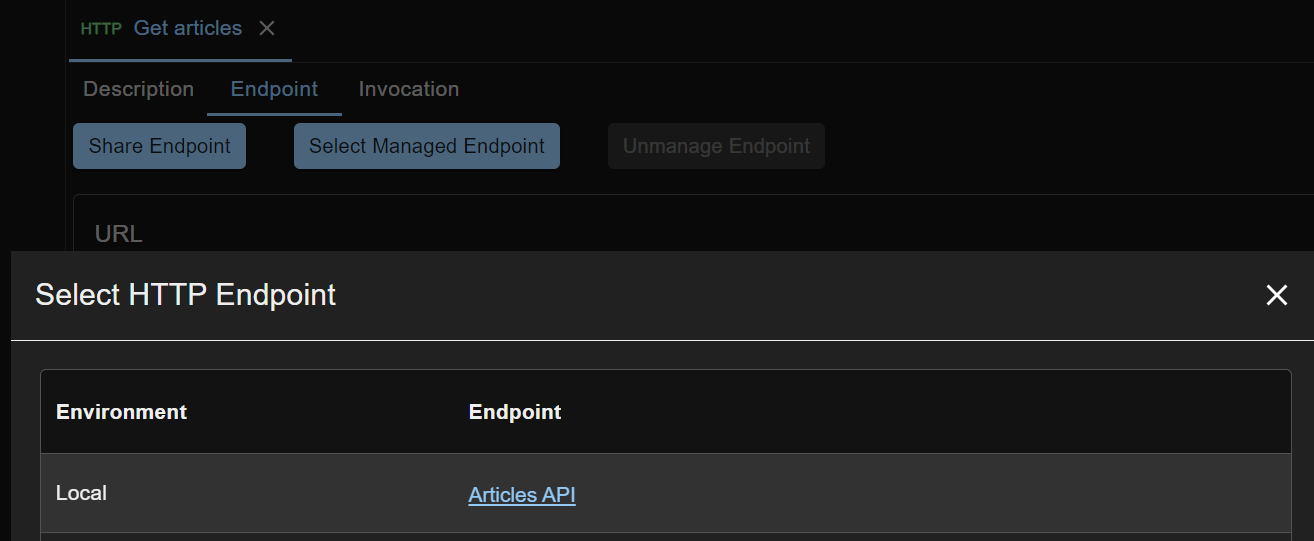
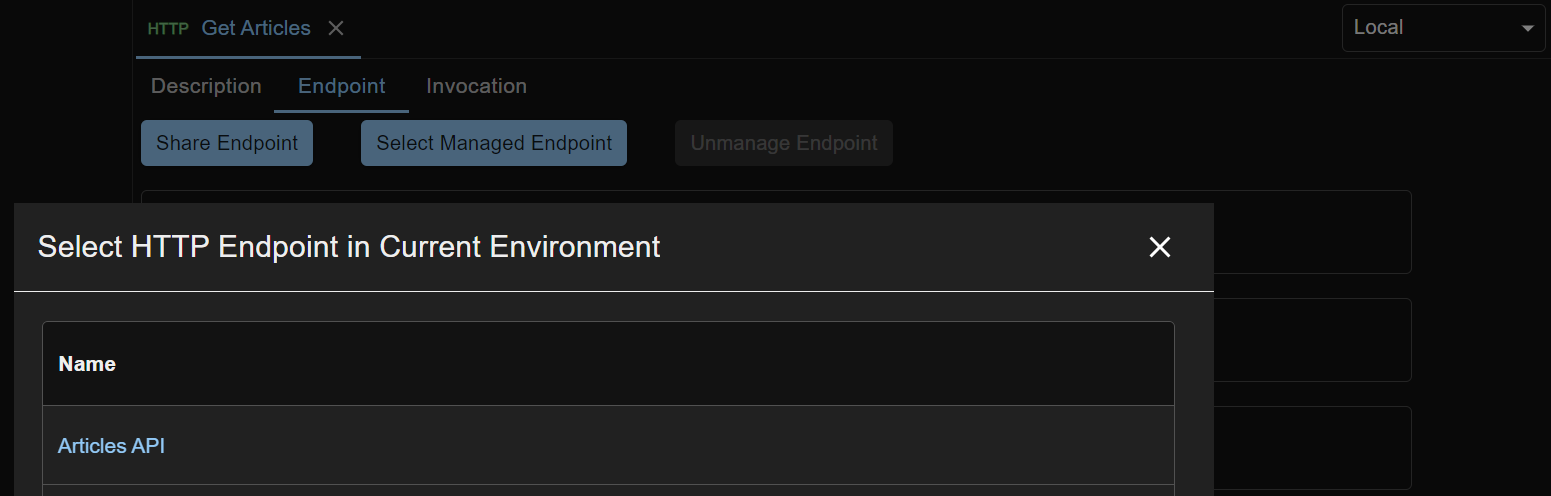
update doc for env management

diff --git a/_docs/en/endpoints-management.md b/_docs/en/endpoints-management.md
@@ -3,43 +3,38 @@ title: Endpoints Management
 permalink: /docs/en/endpoints-management
 key: docs-endpoints-management
 ---
-When a new request or test step is created, and it needs an endpoint, an `unmanaged endpoint` with empty values will be created and associated with it.
+When a new request is created, an `unmanaged endpoint` with empty values will be created and associated with it.
 
-Unmanaged endpoint is specific to a request or test step, and is invisible to other requests or test steps.
+Unmanaged endpoint is specific to a request, and is invisible to other requests.
 
-To reuse endpoints across requests or test steps, you can create `managed endpoints`.
+To reuse endpoints across requests, you can create `managed endpoints` in environments.
 
-## Create Environment
-Managed endpoints reside in environments.
-
-To create an environment, click the `Environments` icon in the left side bar of the screen, right click the blank space in the left side pane and select `New Environment` from the context menu.
-
-Give it a name (like 'Local'), press Enter, and a new empty environment is created with its edit view opened.
-
-![Environment](../../screenshots/env-mgmt/environment.png)
+Refer to this [page](/docs/en/environments-management) for more information about environments.
 
 There are two ways to create a managed endpoint. Here we use HTTP endpoint as an example.
 
 ## Create Managed Endpoint in the Environments area
-In the 'Local' environment we just created, click `+ Endpoint` dropdown button, select `HTTP`, give it a name (like 'Article API') and press Enter. A managed HTTP endpoint is created with its edit view displayed on the right.
+Suppose you have created an environment (like 'Local') in the Environments area, open the environment. Click `+ Endpoint` dropdown button, select `HTTP`, give it a name (like 'Articles API') and press Enter. A managed HTTP endpoint is created with its edit view displayed on the right.
 
 Input details into the fields, and the endpoint looks like below. 
 
 ![Managed HTTP Endpoint](../../screenshots/env-mgmt/managed-http-endpoint.png)
 
-To use the newly created managed endpoint, go to an HTTP request or test step, click the `Endpoint` tab, and click `Select Managed Endpoint` button to see a modal that lists all HTTP endpoints. 
+To use the newly created managed endpoint, first make sure its environment is selected for your workspace.
+
+Go to an HTTP request, click the `Endpoint` tab, and click `Select Managed Endpoint` button to see a modal that lists all HTTP endpoints from the selected environment (here 'Local').
 
 ![Select Managed Endpoint](../../screenshots/env-mgmt/select-managed-endpoint.png)
 
-Click the endpoint name to select it for use in the HTTP request or test step.
+Click the endpoint name to select it for use in the HTTP request.
 
-## Share Unmanaged Endpoint from Test Step
-This is a convenient feature for you to capture endpoint details while editing a request or test step, and then turn the (unmanaged) endpoint into managed.
+## Share Unmanaged Endpoint from Request
+This is a convenient feature for you to capture endpoint details while editing a request, and then turn the (unmanaged) endpoint into managed.
 
-Under `Endpoint` tab of a request or test step, click `Share Endpoint` button. Enter details and click `OK` button. The (unmanaged) endpoint will be shared into the specified environment (here 'Local').
+Under `Endpoint` tab of a request, click `Share Endpoint` button. Enter details and click `OK` button. The (unmanaged) endpoint will be shared into the currently selected environment (here 'Local').
 
 ![Share Unmanaged Endpoint](../../screenshots/env-mgmt/share-unmanaged-endpoint.png)
 
-## Changing from Managed Endpoint to Unmanaged for a Request or Test Step
-Clicking the `Unmanage Endpoint` button under the `Endpoint` tab will allow you to clone the managed endpoint to an unmanaged one for the request or test step. The managed one stays untouched in the environment.
+## Changing from Managed Endpoint to Unmanaged for a Request
+Clicking the `Unmanage Endpoint` button under the `Endpoint` tab will allow you to clone the managed endpoint to an unmanaged one for the request. The managed one stays untouched in its containing environment.
  

diff --git a/_docs/en/environments-management.md b/_docs/en/environments-management.md
@@ -1,0 +1,16 @@
+---
+title: Environments Management
+permalink: /docs/en/environments-management
+key: docs-environments-management
+---
+Environments are where common endpoints are managed. You can select an environment for your workspace, so that managed endpoints from that environment can be used when running requests.
+
+## Create an Environment
+To create an environment, click the `Environments` icon in the left side bar of the screen, right click the blank space in the left side pane and select `New Environment` from the context menu.
+
+Give it a name (like 'Local'), press Enter, and a new empty environment is created with its edit view opened.
+
+![Environment](../../screenshots/env-mgmt/environment.png)
+
+## Select an Environment for Your Workspace
+To select an environment for your workspace, just select an item from the dropdown list in the top right corner of the screen.
